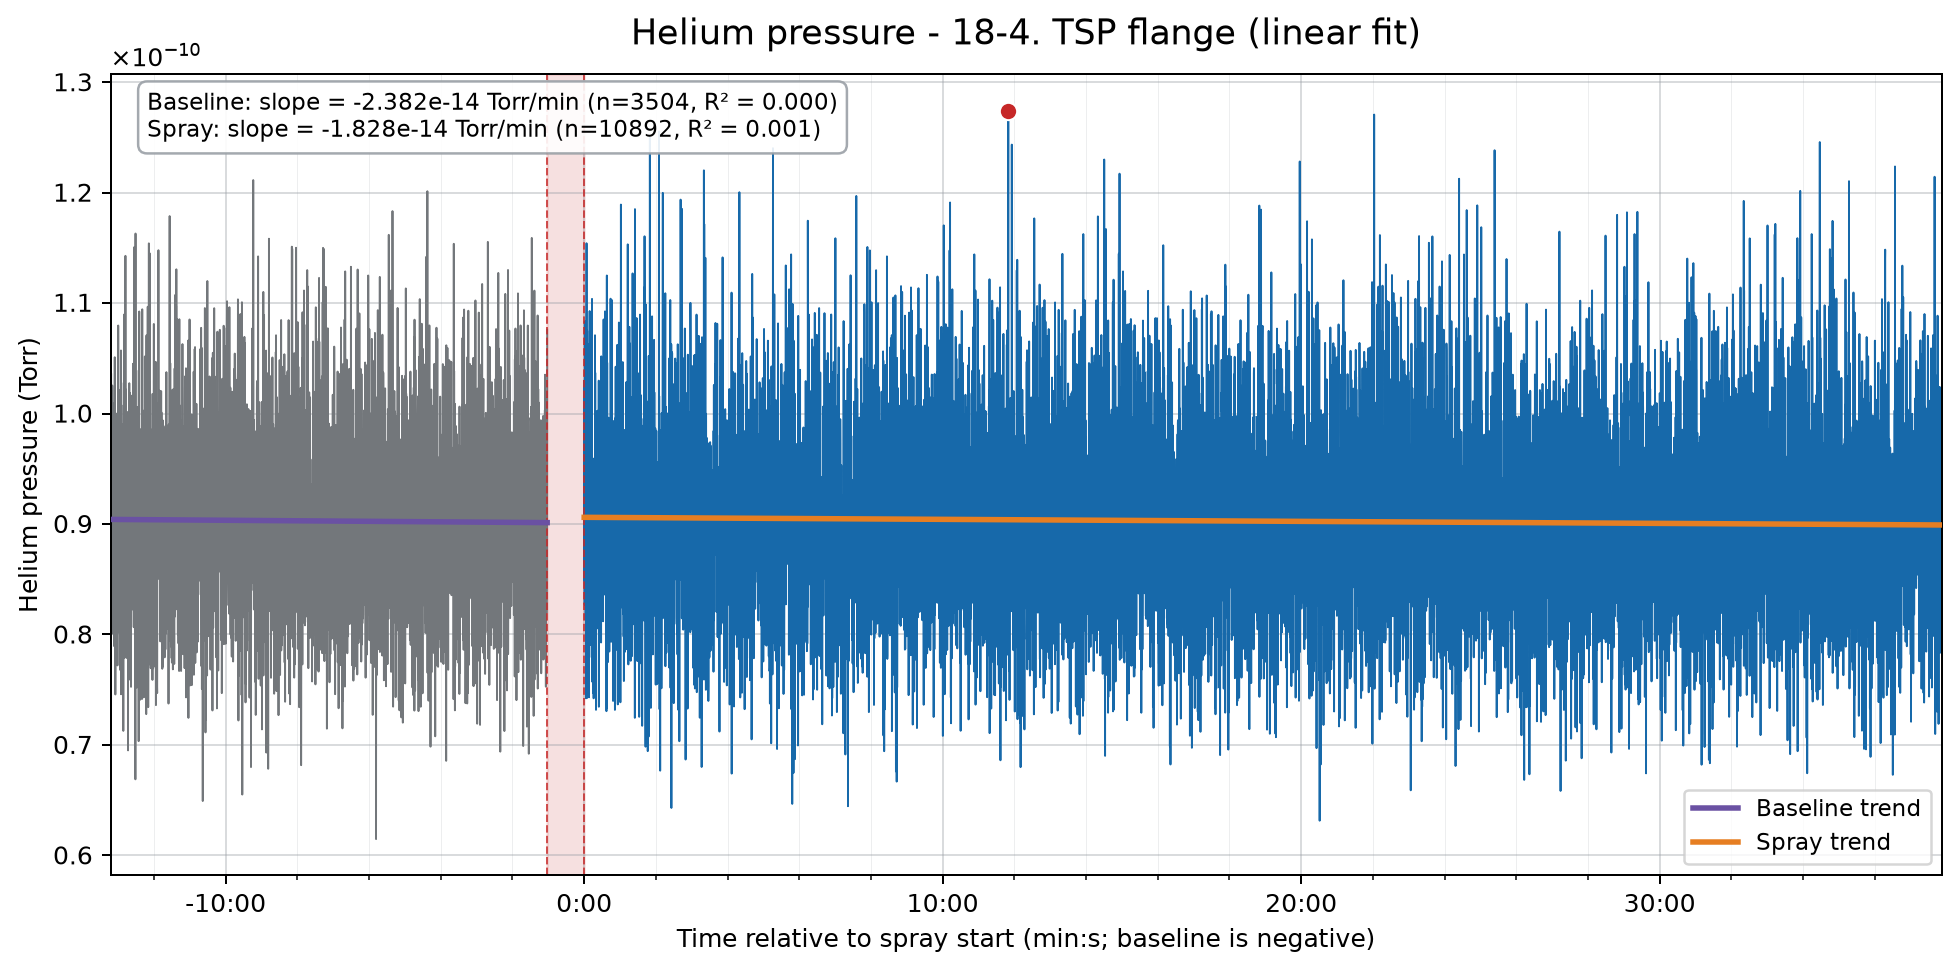
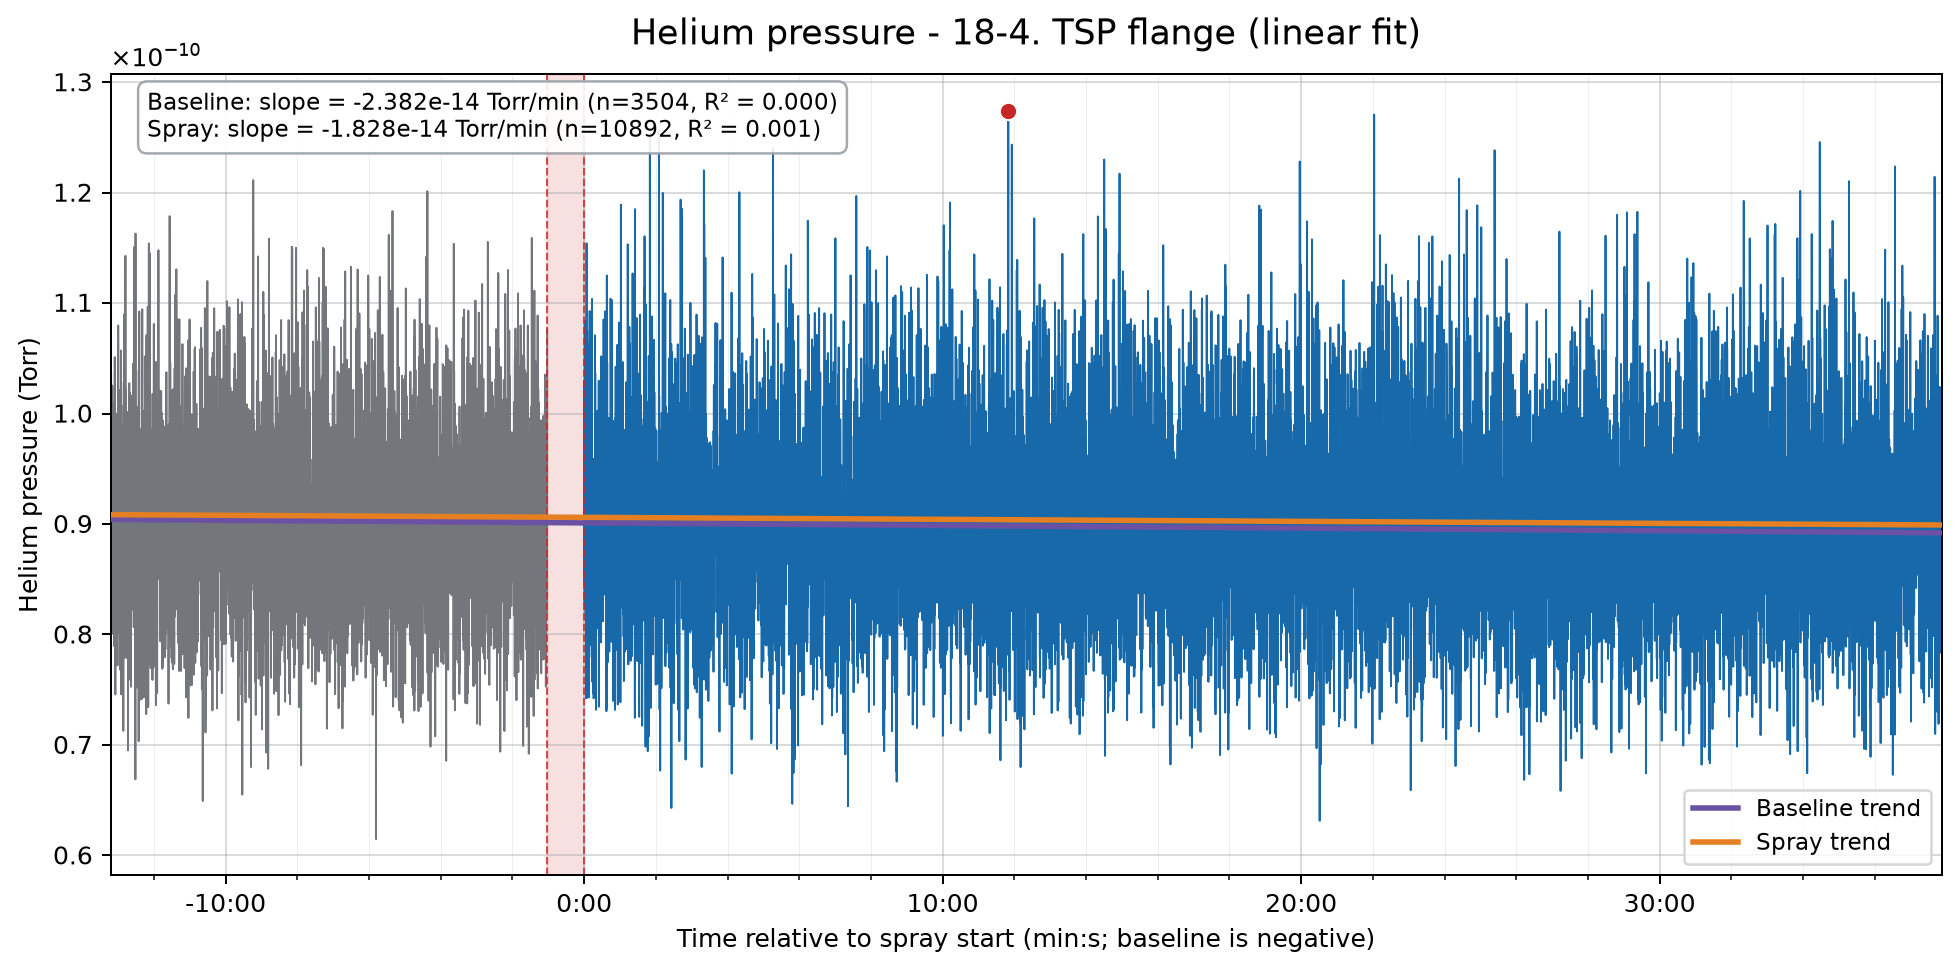
10.13_re_re

Changed region(s): [[0.0623, 0.5252, 0.9964, 0.5561]]

diff --git a/rga_analyze/pipeline.py b/rga_analyze/pipeline.py
@@ -176,38 +176,41 @@ def plot_location(
         ax.axvline(right, color="#c62828", linewidth=0.8, alpha=0.8, linestyle="--")
 
     fit_name = "linear" if fit_degree == 1 else "quadratic"
-    if fit_degree == 1 and has_baseline:
+    if fit_degree is not None:
         fit_summaries = []
         fit_colors = {"baseline": "#6a51a3", "spray": "#e67e22"}
         unit_label = units[0] if len(units) == 1 else "pressure"
-        for phase in ("baseline", "spray"):
+        fit_minutes = np.linspace(
+            min(float(seconds.min()), 0) / 60,
+            max(float(seconds.max()), 1) / 60,
+            500,
+        )
+        for phase in ("baseline", "spray") if has_baseline else ("spray",):
             fit_data = data.loc[
                 (phases == phase) & data["pressure"].notna()
             ]
-            if len(fit_data) < 2:
-                fit_summaries.append(f"{phase.title()}: not enough samples for a fit")
+            if len(fit_data) < fit_degree + 1:
+                if phase == "spray":
+                    raise ValueError(
+                        "Not enough spray samples to calculate the requested fit"
+                    )
+                fit_summaries.append(
+                    f"{phase.title()}: not enough samples for a fit"
+                )
                 continue
 
-            phase_start = fit_data["timestamp"].min()
             fit_minutes_data = (
-                fit_data["timestamp"] - phase_start
+                fit_data["timestamp"] - start
             ).dt.total_seconds() / 60
             fit = np.polynomial.Polynomial.fit(
                 fit_minutes_data.to_numpy(dtype=float),
                 fit_data["pressure"].to_numpy(dtype=float),
-                1,
-            ).convert()
-            phase_start_minutes = (phase_start - start).total_seconds() / 60
-            fit_minutes = np.linspace(
-                float(phase_start_minutes),
-                float(
-                    (fit_data["timestamp"].max() - start).total_seconds() / 60
-                ),
-                500,
+                fit_degree,
             )
+            coefficients = fit.convert().coef
             ax.plot(
                 fit_minutes * 60,
-                fit.coef[0] + fit.coef[1] * (fit_minutes - phase_start_minutes),
+                fit(fit_minutes),
                 color=fit_colors[phase],
                 linewidth=2.2,
                 zorder=4,
@@ -226,75 +229,30 @@ def plot_location(
             r_squared_label = (
                 f", R² = {r_squared:.3f}" if r_squared is not None else ""
             )
-            fit_summaries.append(
-                f"{phase.title()}: slope = {fit.coef[1]:.3e} "
-                f"{unit_label}/min (n={len(fit_data)}{r_squared_label})"
-            )
+            if fit_degree == 1:
+                fit_summaries.append(
+                    f"{phase.title()}: slope = {coefficients[1]:.3e} "
+                    f"{unit_label}/min (n={len(fit_data)}{r_squared_label})"
+                )
+            else:
+                equation = f"P(t) = {coefficients[0]:.3e}"
+                for power, coefficient in enumerate(coefficients[1:], start=1):
+                    sign = "+" if coefficient >= 0 else "-"
+                    term = f" {sign} {abs(coefficient):.3e} t"
+                    if power > 1:
+                        term += f"^{power}"
+                    equation += term
+                fit_summaries.append(
+                    f"{phase.title()}: {equation}\n"
+                    f"R² = {r_squared:.3f}" if r_squared is not None
+                    else f"{phase.title()}: {equation}\nR² = undefined"
+                )
 
         ax.legend(loc="best", fontsize=9)
         ax.text(
             0.02,
             0.98,
             "\n".join(fit_summaries),
-            transform=ax.transAxes,
-            va="top",
-            ha="left",
-            fontsize=9,
-            bbox={
-                "boxstyle": "round,pad=0.4",
-                "facecolor": "white",
-                "edgecolor": "#9aa0a6",
-                "alpha": 0.9,
-            },
-            zorder=6,
-        )
-    elif fit_degree is not None:
-        fit_data = (
-            data.loc[(data["phase"] == "spray") & data["pressure"].notna()]
-            if "phase" in data
-            else data.loc[data["pressure"].notna()]
-        )
-        if len(fit_data) < fit_degree + 1:
-            raise ValueError("Not enough spray samples to calculate the requested fit")
-        fit_minutes_data = (fit_data["timestamp"] - start).dt.total_seconds() / 60
-        fit = np.polynomial.Polynomial.fit(
-            fit_minutes_data.to_numpy(dtype=float),
-            fit_data["pressure"].to_numpy(dtype=float),
-            fit_degree,
-        )
-        fit_minutes = np.linspace(
-            float(fit_minutes_data.min()),
-            float(fit_minutes_data.max()),
-            500,
-        )
-        ax.plot(
-            fit_minutes * 60,
-            fit(fit_minutes),
-            color="#e67e22",
-            linewidth=2.2,
-            zorder=4,
-        )
-        coefficients = fit.convert().coef
-        equation = f"P(t) = {coefficients[0]:.3e}"
-        for power, coefficient in enumerate(coefficients[1:], start=1):
-            sign = "+" if coefficient >= 0 else "-"
-            term = f" {sign} {abs(coefficient):.3e} t"
-            if power > 1:
-                term += f"^{power}"
-            equation += term
-        pressures = fit_data["pressure"].to_numpy(dtype=float)
-        residual_sum_squares = float(np.sum((pressures - fit(fit_minutes_data)) ** 2))
-        total_sum_squares = float(np.sum((pressures - pressures.mean()) ** 2))
-        r_squared = (
-            1 - residual_sum_squares / total_sum_squares
-            if total_sum_squares > 0
-            else None
-        )
-        fit_summary = f"{equation}\nR^2 = {r_squared:.3f}" if r_squared is not None else f"{equation}\nR^2 = undefined"
-        ax.text(
-            0.02,
-            0.98,
-            fit_summary,
             transform=ax.transAxes,
             va="top",
             ha="left",
@@ -329,8 +287,8 @@ def plot_location(
             zorder=5,
         )
 
-    minimum_time = float(seconds.min())
-    maximum_time = float(seconds.max())
+    minimum_time = min(float(seconds.min()), 0)
+    maximum_time = max(float(seconds.max()), 1)
     duration = maximum_time - minimum_time
     major_tick = next(
         (

diff --git a/tests/test_pipeline.py b/tests/test_pipeline.py
@@ -153,6 +153,9 @@ class LinearPhaseTrendTests(unittest.TestCase):
 
                 self.assertTrue(output.is_file())
                 self.assertEqual(set(trend_lines), {"Baseline trend", "Spray trend"})
+                for line in trend_lines.values():
+                    self.assertAlmostEqual(line.get_xdata()[0], -9 * 60)
+                    self.assertAlmostEqual(line.get_xdata()[-1], 2 * 60)
                 baseline_slope = np.polyfit(
                     trend_lines["Baseline trend"].get_xdata() / 60,
                     trend_lines["Baseline trend"].get_ydata(),
@@ -168,6 +171,122 @@ class LinearPhaseTrendTests(unittest.TestCase):
                 summary = "\n".join(text.get_text() for text in axes.texts)
                 self.assertIn("Baseline: slope = 1.000e-11 Torr/min (n=3", summary)
                 self.assertIn("Spray: slope = 2.000e-11 Torr/min (n=3", summary)
+            finally:
+                plt.close("all")
+
+    def test_linear_fit_without_baseline_spans_the_full_graph(self) -> None:
+        timestamps = pd.date_range("2026-10-08 15:00:00", periods=3, freq="min")
+        data = pd.DataFrame(
+            {
+                "timestamp": timestamps,
+                "pressure": [1.0e-10, 2.0e-10, 3.0e-10],
+                "pressure_unit": ["Torr"] * 3,
+                "phase": ["spray"] * 3,
+                "spray_start": [timestamps[0]] * 3,
+            }
+        )
+
+        with tempfile.TemporaryDirectory() as temporary_directory:
+            output = Path(temporary_directory) / "fit.png"
+            try:
+                with patch("rga_analyze.pipeline.plt.close"):
+                    plot_location(data, "test_location", output, fit_degree=1)
+                axes = plt.gcf().axes[0]
+                trend_lines = [
+                    line for line in axes.lines if line.get_label() == "Spray trend"
+                ]
+
+                self.assertEqual(len(trend_lines), 1)
+                self.assertAlmostEqual(trend_lines[0].get_xdata()[0], 0)
+                self.assertAlmostEqual(trend_lines[0].get_xdata()[-1], 2 * 60)
+                self.assertEqual(axes.get_legend().get_texts()[0].get_text(), "Spray trend")
+            finally:
+                plt.close("all")
+
+    def test_quadratic_fits_cover_full_graph_with_distinct_phase_colors(self) -> None:
+        spray_start = pd.Timestamp("2026-10-08 15:00:00")
+        timestamps = [
+            spray_start - pd.Timedelta(minutes=3),
+            spray_start - pd.Timedelta(minutes=2),
+            spray_start - pd.Timedelta(minutes=1),
+            spray_start,
+            spray_start + pd.Timedelta(minutes=1),
+            spray_start + pd.Timedelta(minutes=2),
+        ]
+        data = pd.DataFrame(
+            {
+                "timestamp": timestamps,
+                "pressure": [
+                    1.0e-10,
+                    2.0e-10,
+                    5.0e-10,
+                    3.0e-10,
+                    4.0e-10,
+                    7.0e-10,
+                ],
+                "pressure_unit": ["Torr"] * 6,
+                "phase": ["baseline"] * 3 + ["spray"] * 3,
+                "spray_start": [spray_start] * 6,
+            }
+        )
+
+        with tempfile.TemporaryDirectory() as temporary_directory:
+            output = Path(temporary_directory) / "quadratic.png"
+            try:
+                with patch("rga_analyze.pipeline.plt.close"):
+                    plot_location(data, "test_location", output, fit_degree=2)
+                axes = plt.gcf().axes[0]
+                trend_lines = {
+                    line.get_label(): line
+                    for line in axes.lines
+                    if line.get_label() in {"Baseline trend", "Spray trend"}
+                }
+
+                self.assertTrue(output.is_file())
+                self.assertEqual(set(trend_lines), {"Baseline trend", "Spray trend"})
+                self.assertNotEqual(
+                    trend_lines["Baseline trend"].get_color(),
+                    trend_lines["Spray trend"].get_color(),
+                )
+                for line in trend_lines.values():
+                    self.assertAlmostEqual(line.get_xdata()[0], -3 * 60)
+                    self.assertAlmostEqual(line.get_xdata()[-1], 2 * 60)
+                summary = "\n".join(text.get_text() for text in axes.texts)
+                self.assertIn("Baseline: P(t) =", summary)
+                self.assertIn("Spray: P(t) =", summary)
+                self.assertEqual(
+                    {text.get_text() for text in axes.get_legend().get_texts()},
+                    {"Baseline trend", "Spray trend"},
+                )
+            finally:
+                plt.close("all")
+
+    def test_quadratic_fit_without_baseline_spans_the_full_graph(self) -> None:
+        timestamps = pd.date_range("2026-10-08 15:00:00", periods=3, freq="min")
+        data = pd.DataFrame(
+            {
+                "timestamp": timestamps,
+                "pressure": [1.0e-10, 2.0e-10, 5.0e-10],
+                "pressure_unit": ["Torr"] * 3,
+                "phase": ["spray"] * 3,
+                "spray_start": [timestamps[0]] * 3,
+            }
+        )
+
+        with tempfile.TemporaryDirectory() as temporary_directory:
+            output = Path(temporary_directory) / "quadratic.png"
+            try:
+                with patch("rga_analyze.pipeline.plt.close"):
+                    plot_location(data, "test_location", output, fit_degree=2)
+                axes = plt.gcf().axes[0]
+                trend_lines = [
+                    line for line in axes.lines if line.get_label() == "Spray trend"
+                ]
+
+                self.assertEqual(len(trend_lines), 1)
+                self.assertAlmostEqual(trend_lines[0].get_xdata()[0], 0)
+                self.assertAlmostEqual(trend_lines[0].get_xdata()[-1], 2 * 60)
+                self.assertIn("Spray: P(t) =", "\n".join(text.get_text() for text in axes.texts))
             finally:
                 plt.close("all")
 

diff --git a/README.md b/README.md
@@ -22,8 +22,8 @@ The terminal needs to be open in the project folder (the one containing `README.
 
 - Results are grouped under `analysis_outputs/<month.day>/`, based on the input folder name.
 - `plots/helium_by_location/`: raw, unfitted time-series graphs, one per location.
-- `plots/helium_by_location_fits/linear/`: raw readings with straight-line fits to baseline and spray when baseline data is available, with each phase's slope, sample count, and R². The spray fit covers the full spray phase; without baseline data, it shows only the spray fit.
-- `plots/helium_by_location_fits/quadratic/`: raw readings with a second-degree (quadratic) fit to the spray phase, its equation, and R².
+- `plots/helium_by_location_fits/linear/`: raw readings with straight-line fits to each available phase. Each fit is extended across the full graph, with its phase's slope, sample count, and R². Without baseline data, only the spray fit is shown.
+- `plots/helium_by_location_fits/quadratic/`: raw readings with second-degree (quadratic) fits to each available phase. Each fit is extended across the full graph, with its phase's equation and R². Without baseline data, only the spray fit is shown.
 - `processed_data/amu4_by_location/`: the AMU-4 samples used for each graph, with timestamps, phase, source-file names, spray start, and elapsed time.
 
 The run summary lists any CSV that did not contain usable chronological AMU-4 samples. Those files are left out rather than guessed into the plot. It also reports malformed measurement rows and rows whose timestamps are more than 15 minutes from the timestamp in the source filename; those rows are excluded from analysis without changing the source CSVs.
@@ -39,6 +39,6 @@ The run summary lists any CSV that did not contain usable chronological AMU-4 sa
 - The x-axis is time relative to spray start (`min:s`): baseline readings are negative and the first spray sample is at zero. No baseline subtraction is applied to the pressure values.
 - The red point marks the highest measured sample in the spray phase; it is a visual reference, not an automatic leak verdict.
 - Gaps longer than two seconds, including the baseline-to-spray transition, are left unconnected and marked in red.
-- Linear fit graphs show separate baseline and spray lines when baseline data is available. Each slope is pressure change per minute, fitted only to that phase's readings; the spray fit covers the full spray phase. The sample count and R² are shown for each line. Quadratic fit graphs add an orange curve and show its equation (with time from spray start in minutes) and R²; the quadratic fit uses only the spray phase. Full-phase fits summarize the average direction and can hide short-lived peaks. R² describes how much of the variation in the recorded pressures is captured by a fit; it does not establish a leak or its cause.
+- Fit graphs show separate, differently colored baseline and spray trends when baseline data is available. Each fit is calculated only from that phase's readings, then extended across the full graph to make changes between phases directly comparable. Without baseline data, the spray fit spans the full graph. Linear fits report each phase's slope (pressure change per minute), sample count, and R². Quadratic fits report each phase's equation (with time from spray start in minutes) and R². Full-phase fits summarize the average trend and can hide short-lived peaks. R² describes how much of the variation in the recorded pressures is captured by a fit; it does not establish a leak or its cause.
 
 These fits are exploratory visual comparisons, not a leak-rate calculation or a leak verdict. Use the raw plots to identify a time range before interpreting a short rise or peak; a fit over the full spray phase can hide local behavior. Source files are never changed.
